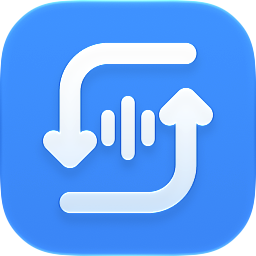
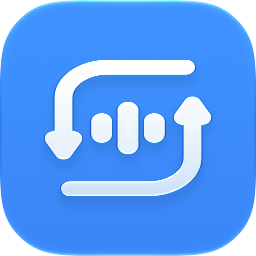
feat: preserve sandbox accessory identities with public Bluetooth metadata

Changed region(s): [[0.1562, 0.1562, 0.8438, 0.8438]]

diff --git a/Sources/Soniclet/AudioAccessories.swift b/Sources/Soniclet/AudioAccessories.swift
@@ -1,6 +1,9 @@
 import Foundation
+#if MAC_APP_STORE
+import IOBluetooth
+#endif
 
-/// Only fields reported by macOS's documented system_profiler utility are used.
+/// Public system_profiler reports (direct) or cached IOBluetooth metadata (store).
 /// No Bluetooth scanning, private selectors, or accessory control protocols.
 struct AudioAccessory: Equatable, Sendable {
     let name: String
@@ -79,6 +82,32 @@ struct AudioAccessory: Equatable, Sendable {
     }
 
     static func readConnected() throws -> [Self] {
+#if MAC_APP_STORE
+        // Read the system cache only: no scan, SDP query, connection or pairing.
+        let devices = IOBluetoothDevice.pairedDevices() as? [IOBluetoothDevice] ?? []
+        return devices.filter { $0.isConnected() }.compactMap { device -> Self? in
+            guard device.deviceClassMajor == kBluetoothDeviceClassMajorAudio,
+                  let name = device.name, !name.isEmpty else { return nil }
+            let category: String
+            switch Int(device.deviceClassMinor) {
+            case kBluetoothDeviceClassMinorAudioHeadset: category = "Headset"
+            case kBluetoothDeviceClassMinorAudioHeadphones: category = "Headphones"
+            case kBluetoothDeviceClassMinorAudioLoudspeaker: category = "Loudspeaker"
+            case kBluetoothDeviceClassMinorAudioCar: category = "CarAudio"
+            default: return nil
+            }
+            let uuid = IOBluetoothSDPUUID(uuid16: BluetoothSDPUUID16(kBluetoothSDPUUID16ServiceClassPnPInformation.rawValue))
+            let record = uuid.flatMap { device.getServiceRecord(for: $0) }
+            func number(_ attribute: UInt32) -> UInt16? {
+                guard let value = record?.getAttributeDataElement(BluetoothSDPServiceAttributeID(attribute))?.getNumberValue()?.intValue else { return nil }
+                return UInt16(exactly: value)
+            }
+            return fromCachedMetadata(name: name, address: device.addressString, category: category,
+                vendor: number(kBluetoothSDPAttributeDeviceIdentifierVendorID.rawValue),
+                vendorSource: number(kBluetoothSDPAttributeDeviceIdentifierVendorIDSource.rawValue),
+                product: number(kBluetoothSDPAttributeDeviceIdentifierProductID.rawValue))
+        }
+#else
         let process = Process()
         process.executableURL = URL(fileURLWithPath: "/usr/sbin/system_profiler")
         process.arguments = ["SPBluetoothDataType", "-json", "-timeout", "5"]
@@ -90,5 +119,16 @@ struct AudioAccessory: Equatable, Sendable {
         process.waitUntilExit()
         guard process.terminationStatus == 0 else { return [] }
         return try parseConnected(data)
+#endif
+    }
+
+    /// SDP Device ID uses distinct Bluetooth SIG (1) and USB (2) vendor namespaces.
+    /// Missing battery metadata stays unknown; a product ID never implies a level.
+    static func fromCachedMetadata(name: String, address: String?, category: String,
+                                   vendor: UInt16?, vendorSource: UInt16?, product: UInt16?) -> Self {
+        let hex = (address ?? "").lowercased().filter { $0.isASCII && $0.isHexDigit }
+        let apple = (vendorSource == 1 && vendor == 0x004c) || (vendorSource == 2 && vendor == 0x05ac)
+        return Self(name: name, address: hex.count == 12 ? hex : nil, isApple: apple,
+                    batteryPercent: nil, productID: product, category: category)
     }
 }

diff --git a/Tests/SonicletTests/AudioAccessoryTests.swift b/Tests/SonicletTests/AudioAccessoryTests.swift
@@ -6,6 +6,13 @@ struct AudioAccessoryTests {
         guard condition else { fputs("FAIL: \(message)\n", stderr); exit(1) }
     }
     static func main() throws {
+        let cached = AudioAccessory.fromCachedMetadata(name: "Renamed Buds", address: "11-22-33-44-55-66", category: "Headphones", vendor: 0x004c, vendorSource: 1, product: 0x2024)
+        require(cached.symbol == "airpodspro" && cached.batteryPercent == nil, "Cached SDP identifies a model without inventing battery data")
+        require(AudioAccessory.match(uid: "11:22:33:44:55:66:output", name: "Old Name", in: [cached]) == cached, "Cached address matches renamed Core Audio device")
+        let wrongNamespace = AudioAccessory.fromCachedMetadata(name: "Other", address: nil, category: "Headphones", vendor: 0x004c, vendorSource: 2, product: 0x2024)
+        require(wrongNamespace.symbol == nil, "Vendor namespace must agree before assigning Apple symbols")
+        let usb = AudioAccessory.fromCachedMetadata(name: "USB ID", address: "invalid", category: "Headphones", vendor: 0x05ac, vendorSource: 2, product: 0x2024)
+        require(usb.isApple && usb.address == nil, "USB vendor namespace and malformed address handled separately")
         let data = Data(#"""
         {"SPBluetoothDataType":[{"device_connected":[
           {"Studio Headset":{"device_minorType":"Headset","device_address":"AA-BB-CC-DD-EE-FF","device_vendorID":"0x054C","device_batteryLevelMain":"60%"}},

diff --git a/Tests/SonicletTests/LocalizationChecks.swift b/Tests/SonicletTests/LocalizationChecks.swift
@@ -20,6 +20,9 @@ struct LocalizationChecks {
             let matched = Bundle.preferredLocalizations(from: app.localizations, forPreferences: [language])
             require(matched.first == language, "Language negotiation failed: \(language)")
             let localizedBundle = Bundle(url: resources.appendingPathComponent("\(language).lproj"))!
+            let infoURL = localizedBundle.url(forResource: "InfoPlist", withExtension: "strings")!
+            let info = try PropertyListSerialization.propertyList(from: Data(contentsOf: infoURL), format: nil) as! [String: String]
+            require(!(info["NSBluetoothAlwaysUsageDescription"] ?? "").isEmpty, "Bluetooth permission purpose: \(language)")
             let tableURL = localizedBundle.url(forResource: "Localizable", withExtension: "strings")!
             let table = try PropertyListSerialization.propertyList(from: Data(contentsOf: tableURL), format: nil) as! [String: String]
             require(Set(table.keys) == Set(base.keys), "Missing or extra keys: \(language)")

diff --git a/Sources/Soniclet/StatusMark.swift b/Sources/Soniclet/StatusMark.swift
@@ -37,9 +37,9 @@ enum StatusMark {
         }
         guard let source = NSImage(data: Data(svg.utf8)) else { return nil }
         let result = NSImage(size: NSSize(width: 19, height: 19), flipped: false) { rect in
-            // Keep the full width and native image alignment; shorten only the artwork's height.
-            let artwork = NSRect(x: rect.minX, y: rect.midY - 7.75, width: rect.width, height: 15.5)
-            source.draw(in: artwork, from: NSRect(origin: .zero, size: source.size),
+            // Share the app's motif, cropping only Icon Composer's outer padding.
+            // Its source already contains the menu-bar proportions (19 × 15.5).
+            source.draw(in: rect, from: NSRect(x: 178, y: 178, width: 668, height: 668),
                         operation: .sourceOver, fraction: 1)
             return true
         }

diff --git a/docs/SANDBOX.md b/docs/SANDBOX.md
@@ -6,7 +6,7 @@ Local investigation: 2026-10-26, macOS 27.2 (26B118), SDK 27.0. No App Store app
 
 `DISTRIBUTION_CHANNEL=app-store ./build.sh` compiles `MAC_APP_STORE`, signs with `Configuration/AppStore.entitlements`, and writes `.build/app-store/Soniclet.app`. Default direct builds still produce `Soniclet.app`. `APP_BUNDLE_ID` and `OUTPUT_APP` support isolated local trials; do not install a trial over the everyday app or enable its automatic routing during verification.
 
-The store profile contains only `com.apple.security.app-sandbox`. Tests did not require audio-input, microphone, Bluetooth, network, or temporary-exception entitlements for the Core Audio metadata/default-control operations exercised. No audio recording or permission prompts were used. This does not prove every physical route change or hardware driver works.
+The store profile contains `com.apple.security.app-sandbox` and `com.apple.security.device.bluetooth`. The latter is needed for public cached accessory metadata, with a localized Bluetooth usage description. Core Audio metadata/default-control tests did not need microphone, audio-input, network or temporary-exception entitlements. No audio was recorded. This does not prove every physical route change or hardware driver works.
 
 GitHub update checking and cached GitHub update notices are compiled out of the store variant. Its update action opens the App Store; the direct version retains GitHub Releases notifications. An offline regression rejects any GitHub requests in store-mode checking.
 
@@ -27,13 +27,19 @@ A separate application compared non-sandboxed, sandbox-only, network-client, Blu
 | GitHub networking | Denied without network-client; HTTP 404 reached with network-client | Store variant does not need this entitlement or GitHub checks |
 | Bluetooth report | system_profiler ran with exit 0 but returned an empty 48-byte report in sandbox-only, network-only, Bluetooth-only and combined profiles | Baseline returned connected accessory and battery data |
 
-The Bluetooth result means the existing report cannot preserve battery values, model IDs used for some exact AirPods/Beats symbols, or the address used by the dedicated headphone-settings link. The existing generic Core Audio symbol and Bluetooth Settings fallback still apply. No private selector, unrestricted helper, or temporary mach-lookup exception was added to escape this restriction.
+### Public Bluetooth alternative
+
+A second, permission-approved probe used public `IOBluetoothDevice.pairedDevices()`, `isConnected()`, `getServiceRecord(for:)` and SDP attribute accessors inside an enforced Sandbox with the Bluetooth entitlement. It read the existing system cache only: no scan, SDP query, connection or pairing. With AirPods Pro 2 connected, cached PnP metadata reported Apple vendor ID `0x004c` and product ID `0x2024`. The actual application backend also returned one audio accessory, one model-specific symbol and one normalized address inside Sandbox; its SDP vendor namespace was Bluetooth SIG (1). Store builds now use this path for connected audio accessory names, addresses and model IDs. Hardware-address matching, model-specific symbols and dedicated settings-link construction are preserved where metadata is present; actual per-device settings navigation is a separate check. Permission denial or missing records falls back to Core Audio symbols and generic settings links.
+
+Battery remains a distribution difference. With the same connected AirPods, public CoreBluetooth retrieval found no connected peripheral matching the standard Battery Service (`180F`); Device Information Service (`180A`) was present. Public power-source enumeration returned only the internal Mac battery, and public HID registry inspection exposed no battery fields. This is evidence for this device/session, not proof that standard battery services never work on other hardware. These probe-only frameworks/registry checks are not added to the application. No private battery selector, private accessory power-source API, unrestricted helper, or temporary exception is used. Store builds leave battery values unknown; direct builds retain the existing profiler report.
+
+References: [IOBluetoothDevice](https://developer.apple.com/documentation/iobluetooth/iobluetoothdevice), [connected CoreBluetooth peripherals](https://developer.apple.com/documentation/corebluetooth/cbcentralmanager/retrieveconnectedperipherals(withservices:)), [public power-source enumeration](https://developer.apple.com/documentation/iokit/1523839-iopscopypowersourcesinfo).
 
 The actual app's sandbox GUI smoke test passed with a container home and a denied read of its external source file, covering settings reopening, native menu tracking/dismissal, fixed status-item width and destination-preview restoration. Foreground activation assertions were explicitly skipped. This is separate from physical switching and login-item testing.
 
 ## Still required before submission
 
-- Decide whether the Bluetooth feature difference is acceptable or identify a supported public alternative.
+- Decide whether the remaining battery-display difference is acceptable; validate Bluetooth permission denial and cached metadata across more models.
 - Test actual input/output changes, volume/mute changes and physical connect/disconnect under a correctly signed store build, at an agreed time.
 - Test login registration/unregistration and login execution with the intended signed bundle in its final location.
 - Validate direct/store preference migration and avoid concurrent installations/login entries.

diff --git a/AGENTS.md b/AGENTS.md
@@ -14,7 +14,7 @@ Keep this a small, native macOS audio-device switcher. Prefer public Apple APIs 
 - Persist only user preferences. Identify devices by UID and direction, never transient AudioObjectID. Preserve stored settings compatibility. Do not retain disconnected AirPlay session endpoints.
 - Keep app identity stable after publication. Renaming the app must not silently discard preferences or duplicate login items.
 - Keep errors actionable. Automatic routing must be explicitly enabled per direction and is off by default. Respect manual selections; ask through a native alert before resuming on a higher-priority connection. Hiding a device excludes it from automatic candidates when enabled. A write failure or timeout must never invent manual intent. Confirm stable defaults by UID with a bounded reflection wait; serialize automatic output/input writes. Failed writes must not retry indefinitely.
-- Use Foundation networking for direct-download release checks. Store builds must carry App Sandbox, ignore GitHub update caches/checks, and delegate updates to the App Store. Keep sandbox permissions minimal; do not add microphone/Bluetooth/network permissions or temporary exceptions without evidence. Never test a sandbox trial under the installed app's identity. Do not download or execute updates. Validate release links before opening them.
+- Use Foundation networking for direct-download release checks. Store builds must carry App Sandbox, ignore GitHub update caches/checks, and delegate updates to the App Store. Keep sandbox permissions minimal; do not add microphone/Bluetooth/network permissions or temporary exceptions without evidence. Store Bluetooth metadata uses public IOBluetooth cached paired/connected-device records with the Bluetooth entitlement and localized usage descriptions. Never scan, connect, pair, query SDP remotely, or add private battery accessors just to fill missing metadata. Never test a sandbox trial under the installed app's identity. Do not download or execute updates. Validate release links before opening them.
 - Localize every user-facing string in all bundled languages. Preserve formatting placeholders. Treat translations as open to native-speaker review.
 
 ## Validation

diff --git a/Assets/README.md b/Assets/README.md
@@ -1,10 +1,10 @@
 # Soniclet artwork
 
-`Soniclet.icon` is the editable Icon Composer document. Its embedded `Assets/Routing.svg` is the original vector mark: two independent opposing audio routes around a standalone waveform, with a square silhouette and a subtle S-like arrangement. The artwork is covered by the repository's MIT license.
+`Soniclet.icon` is the editable Icon Composer document. Its embedded `Assets/Routing.svg` is the original vector mark: two independent opposing audio routes around a standalone waveform, with matching arrow/waveform weights and a compact, vertically centered silhouette. The artwork is covered by the repository's MIT license.
 
 Edit the material and appearances with Apple's Icon Composer. `Tools/build-icon.sh` calls Apple's `actool` to compile both the adaptive asset catalog and the `.icns` fallback for macOS 14–25. The menu-bar speaker remains a native SF Symbol.
 
-`StatusMark.svg` is the menu-bar-specific variant, with thinner arrows and heavier, separated volume bars. The app draws it at the same width with a shorter, vertically centered silhouette. Its three named bars receive runtime opacity changes; this does not change the full-size app icon.
+The app icon and menu-bar mark share `Soniclet.icon/Assets/Routing.svg`. Icon Composer supplies the app background/materials; the menu-bar build copies the same white vector into the bundle as `StatusMark.svg` and crops its outer padding. Source geometry includes the same shorter proportions and spacing in both uses. Named volume bars still receive runtime opacity changes only in the menu bar.
 
 `Preview.png` is a documentation preview; the app uses the compiled Icon Composer document, not this PNG. Regenerate the preview using Icon Composer's export feature, or its bundled `ictool`:
 

diff --git a/docs/RELEASING.md b/docs/RELEASING.md
@@ -64,7 +64,7 @@ GitHub Releases and the Mac App Store are both intended distribution channels. T
 
 Before adding a store build:
 
-- App Sandbox is enabled for `DISTRIBUTION_CHANNEL=app-store`. Local tests cover enumeration, same-value default/volume writes, settings UI and menu tracking. Physical route changes, login registration and final signed distribution still need verification. Bluetooth report data is unavailable in the tested sandbox even with Bluetooth/network entitlements; do not claim battery/model-specific feature parity.
+- App Sandbox is enabled for `DISTRIBUTION_CHANNEL=app-store`. Local tests cover enumeration, same-value default/volume writes, settings UI and menu tracking. Physical route changes, login registration and final signed distribution still need verification. Store builds use public cached IOBluetooth metadata with the Bluetooth entitlement for model icons and settings links. Battery data remains unavailable in the tested sandbox; do not claim full feature parity. See `docs/SANDBOX.md` for evidence and limits.
 - Prepare an App Store provisioning/signing and upload workflow, separate from Developer ID/notarization for GitHub downloads. Confirm the application identifier after membership activates.
 - Store builds disable GitHub checks and ignore GitHub release cache. The update action opens the App Store. Direct builds retain the existing GitHub notifier.
 - Test containerized preference storage and migration between channels, and avoid running duplicate menu-bar/login-item instances.

diff --git a/README.md b/README.md
@@ -105,7 +105,7 @@ DISTRIBUTION_CHANNEL=app-store ./test-settings.sh --allow-background-focus
 
 The variant is written to `.build/app-store/Soniclet.app` and carries the App Sandbox entitlement. It is ad-hoc signed unless a real signing identity is supplied; it is not an App Store upload package. Use a separate `APP_BUNDLE_ID` for local trials to preserve the installed app's container and preferences. Store builds delegate updates to the App Store and never check GitHub.
 
-The current Bluetooth report method returns no accessory data inside App Sandbox: battery levels, some model-specific symbols and dedicated headphone settings links lose coverage. Generic audio switching and Bluetooth Settings links remain. See [sandbox compatibility and verification limits](docs/SANDBOX.md). A successful local sandbox run is not App Review approval.
+Store builds use public IOBluetooth cached metadata with Bluetooth permission for model-specific icons and device settings links. Battery levels are not currently available through that path; direct builds retain their profiler-based battery display. Generic Core Audio symbols and Bluetooth Settings links remain available when permission or metadata is missing. See [sandbox compatibility and verification limits](docs/SANDBOX.md). A successful local sandbox run is not App Review approval.
 
 ## Release status
 

diff --git a/README.ja.md b/README.ja.md
@@ -80,4 +80,4 @@ Icon Composerの原稿と旧macOS向けアイコンを同梱しています。De
 
 設定画面の「一般」からも更新確認を実行できます。メニューと同じ更新状態・チェック処理を共有します。
 
-App Store向けのSandboxビルドは `DISTRIBUTION_CHANNEL=app-store ./build.sh` で作成できます。通常版とは別の `.build/app-store/Soniclet.app` に出力し、GitHub更新確認は無効にします。Bluetooth残量・一部の機種別アイコン・専用設定リンクには現行取得方法の制約があります。[検証結果](docs/SANDBOX.md)を参照してください。
+App Store向けのSandboxビルドは `DISTRIBUTION_CHANNEL=app-store ./build.sh` で作成できます。通常版とは別の `.build/app-store/Soniclet.app` に出力し、GitHub更新確認は無効にします。Bluetooth権限を使い、公開IOBluetooth APIのキャッシュから機種別アイコン・専用設定リンクに必要な情報を取得します。この経路では残量は取得できず空欄になります。通常版の残量表示は従来どおりです。権限や情報がない場合もCore Audioのアイコンと汎用設定リンクを使用できます。[検証結果](docs/SANDBOX.md)を参照してください。
